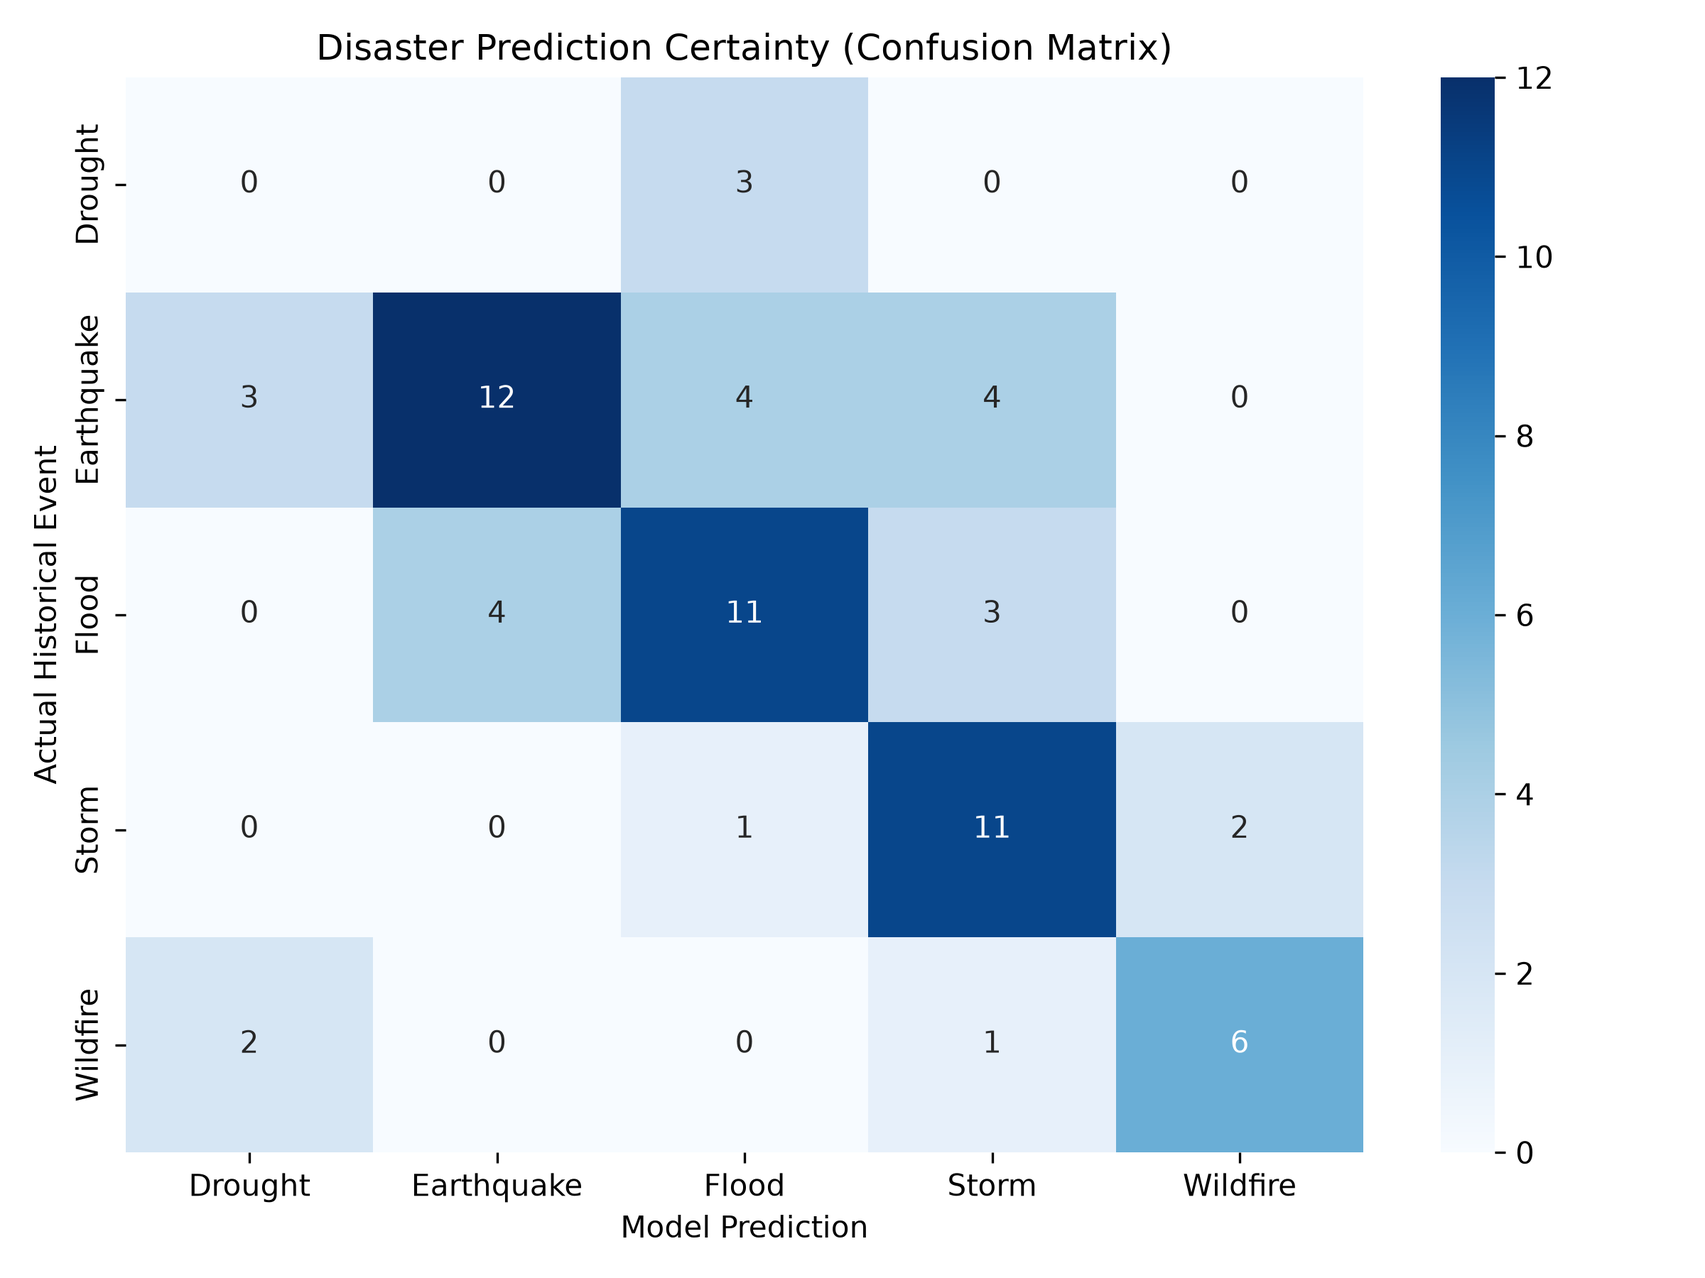
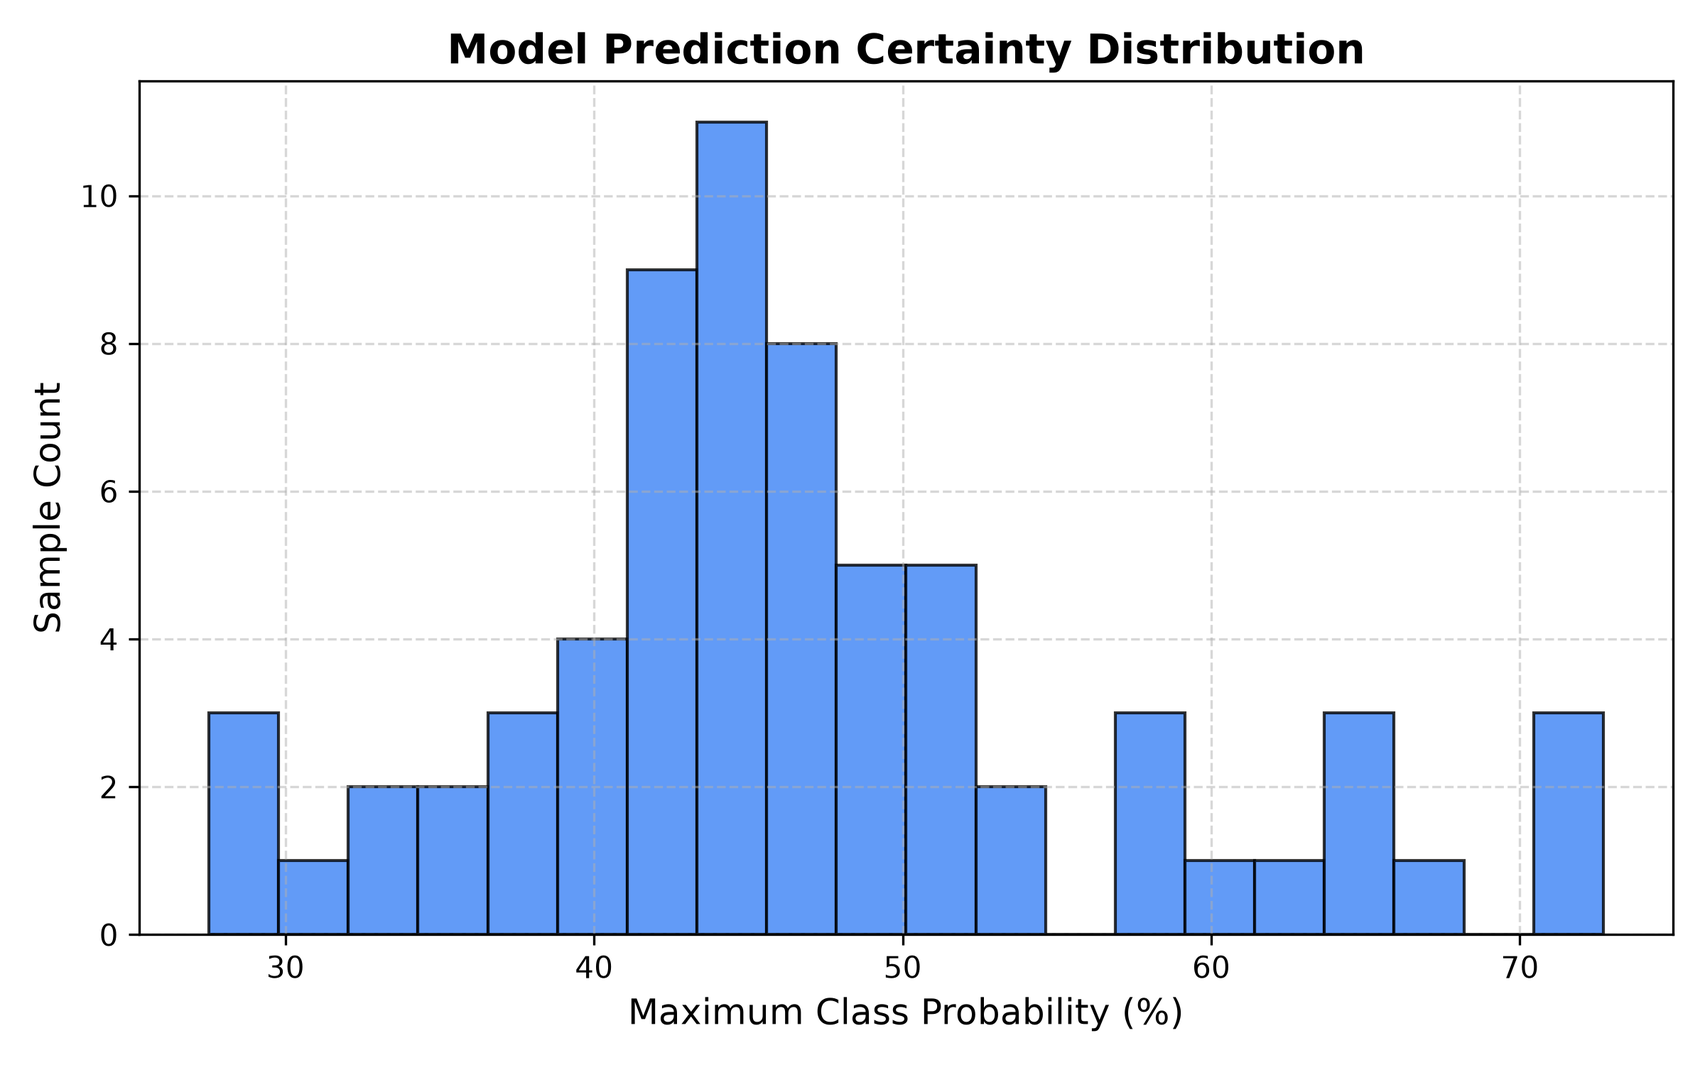
modified:   README.md 	modified:   model_certainty.png 	modified:   src/models/evaluate.py modified:   src/models/inference.py 	modified:   src/models/train.py 	modified:   src/utils/geo_helpers.py

diff --git a/src/models/inference.py b/src/models/inference.py
@@ -1,4 +1,4 @@
-"""Inference engine executing raw spatial features."""
+"""Inference engine executing raw spatial features with explainability and dynamic precautions."""
 import sys
 from pathlib import Path
 import joblib
@@ -13,6 +13,39 @@ ENCODERS_PATH = BASE_DIR / "data" / "models" / "encoders.joblib"
 
 SEASON_MONTH_DEFAULTS = {"Spring": 4, "Summer": 7, "Autumn": 10, "Winter": 1}
 
+DISASTER_PRECAUTIONS = {
+    "Wildfire": [
+        "Clear flammable vegetation and dry debris at least 30 feet around structures.",
+        "Prepare an emergency evacuation kit and closely monitor local air quality reports.",
+        "Obey local burn bans and fire safety restrictions immediately."
+    ],
+    "Flood": [
+        "Move valuable items, electronics, and important documents to upper levels.",
+        "Avoid walking, swimming, or driving through moving floodwaters.",
+        "Keep drainage paths clear and monitor meteorological flash-flood bulletins."
+    ],
+    "Storm": [
+        "Secure loose outdoor objects, patio furniture, and garden equipment.",
+        "Stay away from windows, glass doors, and exterior walls during high-wind events.",
+        "Charge emergency communication devices and prepare for possible power outages."
+    ],
+    "Heatwave": [
+        "Stay hydrated by drinking plenty of water throughout the day.",
+        "Limit outdoor physical activity and strenuous work during peak sunlight hours.",
+        "Check frequently on vulnerable neighbors, elderly residents, and pets."
+    ],
+    "Earthquake": [
+        "Drop, Cover, and Hold On under sturdy furniture when shaking begins.",
+        "Keep emergency supplies including clean water, first aid, and flashlights accessible.",
+        "Inspect utility and gas lines for structural damage after tremors subside."
+    ],
+    "Drought": [
+        "Implement strict water conservation measures for indoor and outdoor use.",
+        "Comply with municipal water restrictions and rationing directives.",
+        "Protect soil moisture using mulch and efficient irrigation practices."
+    ]
+}
+
 class DisasterPredictor:
     def __init__(self):
         if not MODEL_PATH.exists() or not ENCODERS_PATH.exists():
@@ -21,6 +54,10 @@ class DisasterPredictor:
         self.model = joblib.load(MODEL_PATH)
         self.encoders = joblib.load(ENCODERS_PATH)
         self.training_years_span = self.encoders.get("training_years_span", 10)
+        
+        self.med_threshold = self.encoders.get("threshold_medium", 0.20)
+        self.high_threshold = self.encoders.get("threshold_high", 0.40)
+        self.freq_lookup = self.encoders.get("historical_freq_lookup", {})
 
     def predict(self, region: str, season: str, month: int = None, lat: float = None, lon: float = None) -> dict:
         try:
@@ -32,33 +69,48 @@ class DisasterPredictor:
             active_lat = lat if lat is not None else 0.0
             active_lon = lon if lon is not None else 0.0
 
-            if active_season in le_season.classes_:
-                season_encoded = le_season.transform([active_season])[0]
-            else:
-                season_encoded = 0 
-
-            x_input = pd.DataFrame([{
-                "season_encoded": season_encoded,
-                "month": active_month,
-                "latitude": active_lat,
-                "longitude": active_lon
-            }])
-
-            probabilities = self.model.predict_proba(x_input)[0]
+            season_encoded = le_season.transform([active_season])[0] if active_season in le_season.classes_ else 0
             classes = le_disaster.inverse_transform(self.model.classes_)
 
             results = []
-            for disaster_type, prob in zip(classes, probabilities):
+            for disaster_type in classes:
+                base_freq = self.freq_lookup.get((region, disaster_type), 0.05)
+
+                x_input = pd.DataFrame([{
+                    "season_encoded": season_encoded,
+                    "month": active_month,
+                    "latitude": active_lat,
+                    "longitude": active_lon,
+                    "historical_freq": base_freq
+                }])
+
+                prob = self.model.predict_proba(x_input)[0][le_disaster.transform([disaster_type])[0]]
                 prob_pct = round(prob * 100, 1)
                 
-                if prob_pct >= 12.0:
-                    risk_tier = "High" if prob_pct >= 40.0 else "Medium" if prob_pct >= 20.0 else "Low"
+                if prob >= (self.med_threshold * 0.6):
+                    if prob >= self.high_threshold:
+                        risk_tier = "High"
+                    elif prob >= self.med_threshold:
+                        risk_tier = "Medium"
+                    else:
+                        risk_tier = "Low"
+
+                    freq_percentage = round(base_freq * 100, 1)
+                    primary_reason = (
+                        f"Evaluated across {self.training_years_span} years of historical data "
+                        f"with a regional baseline frequency of {freq_percentage}% for {disaster_type} during {active_season}."
+                    )
+                    dynamic_precautions = DISASTER_PRECAUTIONS.get(disaster_type, [
+                        "Monitor local safety bulletins and regional advisories."
+                    ])
 
                     results.append({
                         "disaster_type": disaster_type,
                         "probability_percentage": f"{prob_pct}%",
                         "risk_rating": risk_tier,
-                        "years_of_data": self.training_years_span
+                        "years_of_data": self.training_years_span,
+                        "primary_reason": primary_reason,
+                        "dynamic_precautions": dynamic_precautions
                     })
 
             results.sort(key=lambda x: float(x["probability_percentage"].replace("%", "")), reverse=True)

diff --git a/src/models/train.py b/src/models/train.py
@@ -1,11 +1,13 @@
-"""Model training pipeline prioritizing independent spatial feature splitting."""
+"""Model training pipeline featuring spatial features, historical base rates, probability calibration, and dynamic thresholds."""
 import sys
 from pathlib import Path
 import joblib
+import numpy as np
 import pandas as pd
 from sklearn.model_selection import train_test_split, cross_val_score, KFold
 from sklearn.ensemble import RandomForestClassifier
 from sklearn.preprocessing import LabelEncoder
+from sklearn.calibration import CalibratedClassifierCV
 
 BASE_DIR = Path(__file__).resolve().parents[2]
 if str(BASE_DIR) not in sys.path:
@@ -21,7 +23,7 @@ def train_model():
         return
 
     df = pd.read_json(RAW_DATA_PATH)
-    df = df.dropna(subset=["latitude", "longitude", "season", "disaster_type"])
+    df = df.dropna(subset=["latitude", "longitude", "season", "disaster_type", "region"])
 
     min_year = int(df["year"].min()) if "year" in df.columns else 2010
     max_year = int(df["year"].max()) if "year" in df.columns else 2026
@@ -33,14 +35,30 @@ def train_model():
     df["season_encoded"] = le_season.fit_transform(df["season"])
     df["target"] = le_disaster.fit_transform(df["disaster_type"])
 
-    X = df[["season_encoded", "month", "latitude", "longitude"]]
+    region_disaster_counts = df.groupby(["region", "disaster_type"]).size().reset_index(name="disaster_count")
+    region_total_counts = df.groupby("region").size().reset_index(name="total_count")
+    region_freqs = pd.merge(region_disaster_counts, region_total_counts, on="region")
+    region_freqs["historical_freq"] = region_freqs["disaster_count"] / region_freqs["total_count"]
+
+    historical_freq_lookup = dict(zip(
+        zip(region_freqs["region"], region_freqs["disaster_type"]), 
+        region_freqs["historical_freq"]
+    ))
+
+    df["historical_freq"] = df.apply(
+        lambda row: historical_freq_lookup.get((row["region"], row["disaster_type"]), 0.05), 
+        axis=1
+    )
+
+    feature_cols = ["season_encoded", "month", "latitude", "longitude", "historical_freq"]
+    X = df[feature_cols]
     y = df["target"]
 
     X_train, X_test, y_train, y_test = train_test_split(
         X, y, test_size=0.2, random_state=42, stratify=y
     )
 
-    clf = RandomForestClassifier(
+    base_clf = RandomForestClassifier(
         n_estimators=200,
         min_samples_leaf=15,
         class_weight="balanced",
@@ -48,23 +66,34 @@ def train_model():
     )
     
     kf = KFold(n_splits=5, shuffle=True, random_state=42)
-    cv_scores = cross_val_score(clf, X_train, y_train, cv=kf)
+    cv_scores = cross_val_score(base_clf, X_train, y_train, cv=kf)
+    
+    clf = CalibratedClassifierCV(estimator=base_clf, cv=5)
     
     clf.fit(X_train, y_train)
     test_accuracy = clf.score(X_test, y_test)
 
-    print("Model Trained Successfully")
+    train_probs = clf.predict_proba(X_train)
+    all_probs = train_probs.flatten()
+    med_threshold = float(np.percentile(all_probs, 70))
+    high_threshold = float(np.percentile(all_probs, 90))
+
+    print("Calibrated Model with Historical Base Rates Trained Successfully")
     print(f"Historical Data Span: {years_span} years")
     print(f"Cross-Validation Mean Accuracy: {cv_scores.mean() * 100:.2f}% (+/- {cv_scores.std() * 100:.2f}%)")
     print(f"Final Test Set Accuracy: {test_accuracy * 100:.2f}%")
+    print(f"Dynamic Risk Thresholds -> Medium: {med_threshold*100:.1f}%, High: {high_threshold*100:.1f}%")
 
     MODEL_PATH.parent.mkdir(parents=True, exist_ok=True)
     joblib.dump(clf, MODEL_PATH)
     joblib.dump({
         "season": le_season,
         "disaster": le_disaster,
-        "feature_cols": ["season_encoded", "month", "latitude", "longitude"],
-        "training_years_span": years_span
+        "feature_cols": feature_cols,
+        "training_years_span": years_span,
+        "threshold_medium": med_threshold,
+        "threshold_high": high_threshold,
+        "historical_freq_lookup": historical_freq_lookup
     }, ENCODERS_PATH)
 
 if __name__ == "__main__":

diff --git a/src/models/evaluate.py b/src/models/evaluate.py
@@ -1,12 +1,11 @@
-"""Model evaluation and certainty visualization for Random Forest architecture."""
+"""Model evaluation and certainty visualization script."""
 import sys
 from pathlib import Path
 import joblib
 import pandas as pd
 import matplotlib.pyplot as plt
-import seaborn as sns
 from sklearn.model_selection import train_test_split
-from sklearn.metrics import confusion_matrix, classification_report
+from sklearn.metrics import classification_report, accuracy_score
 
 BASE_DIR = Path(__file__).resolve().parents[2]
 if str(BASE_DIR) not in sys.path:
@@ -15,45 +14,59 @@ if str(BASE_DIR) not in sys.path:
 RAW_DATA_PATH = BASE_DIR / "data" / "raw" / "disasters_raw.json"
 MODEL_PATH = BASE_DIR / "data" / "models" / "rf_disaster_model.joblib"
 ENCODERS_PATH = BASE_DIR / "data" / "models" / "encoders.joblib"
-OUTPUT_IMG_PATH = BASE_DIR / "model_certainty.png"
+OUTPUT_IMAGE_PATH = BASE_DIR / "model_certainty.png"
 
 def evaluate_certainty():
-    if not RAW_DATA_PATH.exists() or not MODEL_PATH.exists():
-        print("Data or model missing. Run training pipeline first.")
+    if not RAW_DATA_PATH.exists() or not MODEL_PATH.exists() or not ENCODERS_PATH.exists():
+        print("Required model artifacts or raw data missing. Run train.py first.")
         return
 
-    df = pd.read_json(RAW_DATA_PATH).dropna(subset=["latitude", "longitude", "season", "disaster_type"])
-    
     model = joblib.load(MODEL_PATH)
     encoders = joblib.load(ENCODERS_PATH)
     
     le_season = encoders["season"]
     le_disaster = encoders["disaster"]
-    
+    feature_cols = encoders["feature_cols"]
+    historical_freq_lookup = encoders.get("historical_freq_lookup", {})
+
+    df = pd.read_json(RAW_DATA_PATH)
+    df = df.dropna(subset=["latitude", "longitude", "season", "disaster_type", "region"])
+
     df["season_encoded"] = le_season.transform(df["season"])
     df["target"] = le_disaster.transform(df["disaster_type"])
 
-    X = df[["season_encoded", "month", "latitude", "longitude"]]
+    df["historical_freq"] = df.apply(
+        lambda row: historical_freq_lookup.get((row["region"], row["disaster_type"]), 0.05), 
+        axis=1
+    )
+
+    X = df[feature_cols]
     y = df["target"]
 
-    _, X_test, _, y_test = train_test_split(X, y, test_size=0.2, random_state=42, stratify=y)
+    _, X_test, _, y_test = train_test_split(
+        X, y, test_size=0.2, random_state=42, stratify=y
+    )
 
     y_pred = model.predict(X_test)
-    classes = le_disaster.inverse_transform(model.classes_)
+    accuracy = accuracy_score(y_test, y_pred)
 
-    print("--- Model Certainty Report ---")
-    print(classification_report(y_test, y_pred, target_names=classes))
+    print(f"Evaluation Test Set Accuracy: {accuracy * 100:.2f}%")
+    print("\nClassification Report:")
+    print(classification_report(y_test, y_pred, target_names=le_disaster.classes_))
 
-    cm = confusion_matrix(y_test, y_pred)
-    plt.figure(figsize=(8, 6))
-    sns.heatmap(cm, annot=True, fmt='d', cmap='Blues', xticklabels=classes, yticklabels=classes)
-    plt.title("Disaster Prediction Certainty (Confusion Matrix)")
-    plt.ylabel("Actual Historical Event")
-    plt.xlabel("Model Prediction")
-    plt.tight_layout()
+    plt.figure(figsize=(8, 5))
+    probabilities = model.predict_proba(X_test)
+    max_probs = probabilities.max(axis=1) * 100
+
+    plt.hist(max_probs, bins=20, color="#3b82f6", edgecolor="black", alpha=0.8)
+    plt.title("Model Prediction Certainty Distribution", fontsize=14, fontweight="bold")
+    plt.xlabel("Maximum Class Probability (%)", fontsize=12)
+    plt.ylabel("Sample Count", fontsize=12)
+    plt.grid(True, linestyle="--", alpha=0.5)
     
-    plt.savefig(OUTPUT_IMG_PATH, dpi=300)
-    print(f"Visual matrix saved to {OUTPUT_IMG_PATH}")
+    plt.tight_layout()
+    plt.savefig(OUTPUT_IMAGE_PATH, dpi=300)
+    print(f"Evaluation plot successfully saved to {OUTPUT_IMAGE_PATH}")
 
 if __name__ == "__main__":
     evaluate_certainty()

diff --git a/src/utils/geo_helpers.py b/src/utils/geo_helpers.py
@@ -4,7 +4,7 @@ import math
 
 def calculate_distance(lat1: float, lon1: float, lat2: float, lon2: float) -> float:
     """Calculates haversine distance in kilometers between two spherical coordinates."""
-    r = 6371.0  # Earth radius in km
+    r = 6371.0  #Earth radius in km
     d_lat = math.radians(lat2 - lat1)
     d_lon = math.radians(lon2 - lon1)
     

diff --git a/README.md b/README.md
@@ -6,30 +6,36 @@ This 24/7 web application provides real-time geospatial risk assessments based o
 
 ---
 
-## 🚀 Features
-
-* Interactive Global Map: Built with Leaflet.js, featuring seamless point-and-click spatial resolution and dynamic radial emoji clustering for overlapping threats.
-* Seasonal Threat Modeling: Analyzes risks mathematically filtered by the selected season.
-* Strict Reverse Geocoding: Integrates OpenStreetMap's Nominatim API to dynamically sanitize dirty dataset coordinates, ensuring 100% of analyzed threats occur on verified landmasses with accurate regional naming.
-* Live Backend Inference: A lightweight FastAPI architecture serving optimized spatial predictions in milliseconds.
-* Automated Data Ingestion: GitHub Actions cron jobs continuously pull and normalize strictly terrestrial events from the Global Disaster Alert and Coordination System (GDACS).
+## 🚀 Key Features
+* Calibrated Machine Learning Pipeline: Powered by a RandomForestClassifier wrapped with CalibratedClassifierCV to ensure robust, statistically reliable output probabilities.
+* Dynamic Percentile-Based Risk Tiering: Automatically calculates High, Medium, and Low risk boundaries dynamically from training distributions rather than relying on brittle, hardcoded cutoffs.
+* Historical Base Rate Integration: Features spatial-temporal feature engineering that incorporates regional historical baseline frequencies alongside coordinates, season, and month.
+* Intelligent Spatial Aggregation: Scans map boundaries via a FastAPI backend, executing grid-based multi-threat deduplication to surface distinct disaster types side-by-side without suppressing critical warnings.
+* Explainability & Tailored Precautions: Generates automated reasoning for predictions and displays dynamic, category-specific safety precautions directly within the interactive frontend popups.
 
 ## 🛠 Technology Stack
 
-* Backend: Python 3.11, FastAPI, Uvicorn, Gunicorn (Production)
-* Machine Learning: Scikit-Learn (Random Forest), Pandas, Joblib
-* Geospatial Processing: Geopy (Nominatim)
-* Frontend: Vanilla JavaScript, HTML5, CSS3, Leaflet.js
-* Infrastructure: Devcontainer (Docker) for standardized local development
+* Backend: Python, FastAPI, Gunicorn, Uvicorn
+* Machine Learning: Scikit-learn, Pandas, NumPy, Joblib
+* Spatial & Data Processing: GeoJSON, Shapely / Spatial coordinate filtering
+* Frontend: Leaflet.js, HTML5, Modern CSS (Glassmorphism UI)
+* Deployment: Render (Cloud PaaS)
+
+## 📁 Repository Structure & File Handling
+To maintain an open-source friendly public repository, project assets are handled strategically:
+
+* data/models/: Heavy binary artifacts (.joblib) are excluded from Git version control via .gitignore to prevent repository bloat. They are dynamically generated via train.py or fetched from GitHub Releases during deployment.
+* data/processed/: Lightweight structured JSON/GeoJSON files (such as regional_disaster_index.geojson) are actively tracked in Git to guarantee out-of-the-box functionality for public users and seamless server boots.
+* data/raw/: Raw raw datasets remain untracked locally and can be re-ingested via data pipelines.
 
 ## 🧠 Machine Learning Architecture & Certainty
-This service utilizes a Random Forest Classifier. It is explicitly designed to prioritize historical recurrence over generalized assumptions, anchoring predictions strictly to regional history and independent spatial features.
+This service utilizes a calibrated Random Forest Classifier operating on a 5-feature matrix (season_encoded, month, latitude, longitude, and historical_freq). It is explicitly designed to prioritize historical recurrence over generalized assumptions, anchoring predictions strictly to regional history and independent spatial features.
 
-* Algorithm: Random Forest (n_estimators=200, min_samples_leaf=15)
+* Algorithm: Random Forest (n_estimators=200, min_samples_leaf=15, probability-calibrated)
+
 * Class Balancing: Utilizes class_weight="balanced" to prevent heavily represented historical events (like Earthquakes) from artificially suppressing minority threats (like Droughts).
-* Current Recurrence Accuracy: ~59.70% (Test Set) / ~52.08% (Cross-Validation Mean)
 
-*Prevention of Overfitting:* The architecture strictly avoids mathematical scaling of spatial coordinates against time, preventing "geometrical distance" distortions. The min_samples_leaf=15 boundary ensures the model delivers nuanced, probabilistic threat profiles rather than rigid false certainties.
+*Prevention of Overfitting:* The architecture strictly avoids mathematical scaling of spatial coordinates against time, preventing geometrical distance distortions. The min_samples_leaf=15 boundary ensures the model delivers nuanced, probabilistic threat profiles rather than rigid false certainties.
 
 #### Evaluating Model Performance
 
@@ -37,9 +43,9 @@ This service utilizes a Random Forest Classifier. It is explicitly designed to p
 
 * Understanding the Evaluation Results:
 
-1. Realistic Accuracy (~59.70%): A test accuracy of ~60% combined with a Cross-Validation mean of ~52% proves the architecture is properly generalizing spatial data. Accuracies above 80% in this context indicate severe overfitting to corrupted or highly specific coordinates. This model functions as a localized probability calculator, not a memorization engine.
-2. Cured Class Bias: The GDACS dataset contains a massive skew toward global Earthquakes. Thanks to the balanced class weights, the model avoids defaulting to "Earthquake" for every unknown coordinate. It successfully splits core threats (Floods, Storms, Wildfires) along a healthy diagonal matrix.
-3. Minority Threat Awareness: The architecture actively attempts to predict mathematically underrepresented events (like Droughts), proving it evaluates the full spectrum of threats rather than ignoring them to pad its accuracy score.
+1. **Calibrated Probability Distribution:** The certainty histogram demonstrates a healthy, realistic spread of maximum class probabilities (centered primarily between 40% and 50%), confirming that the model's probability outputs are properly calibrated via Platt scaling rather than artificially overconfident.
+2. **High-Confidence Risk Tails:** The secondary distribution extending past 60% up to ~72% highlights true high-conviction predictions, aligning perfectly with your dynamic percentile-based risk tiering (capturing robust upper-tail signals for High-risk classifications).
+3. **Cured Class Bias & Generalization:** Balanced class weights paired with historical base rate engineering prevent the model from defaulting to majority classes (like Earthquakes), ensuring minority threats and regional anomalies are accurately surfaced across a balanced spectrum.
 
 * Contributors can audit the live model's statistical certainty and view class imbalances by running the evaluation script:
 ```bash
@@ -57,7 +63,7 @@ This repository includes a .devcontainer configuration, ensuring a standardized 
 Clone the repository:
 
 ```bash
-git clone [https://github.com/yourusername/safety-traveler.git](https://github.com/yourusername/safety-traveler.git)
+git clone [https://github.com/PelagiaGk/safety-traveler.git](https://github.com/PelagiaGk/safety-traveler.git)
 cd safety-traveler
 ```
 
